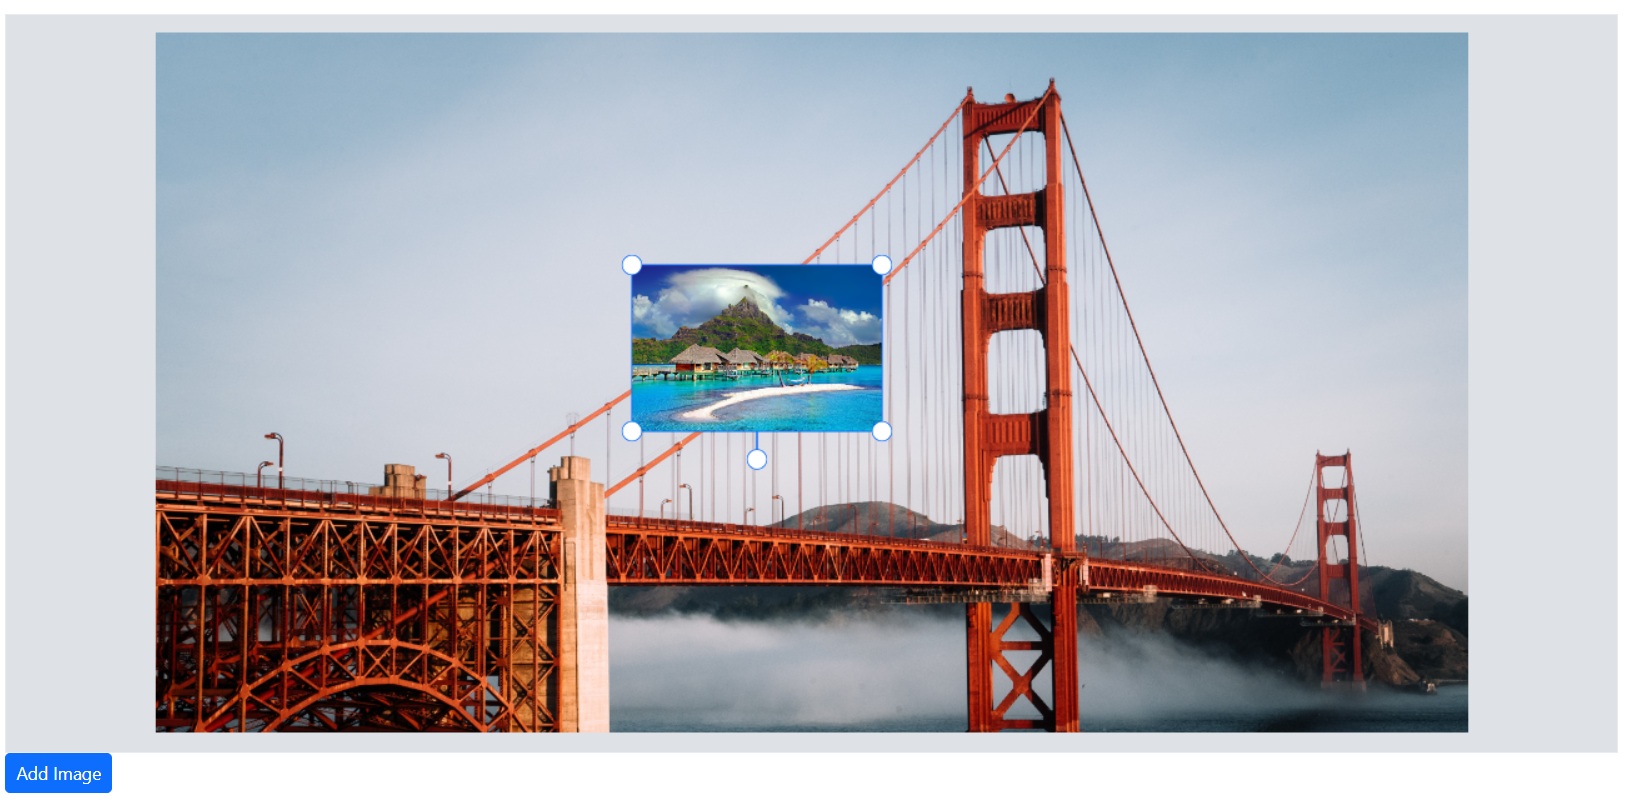
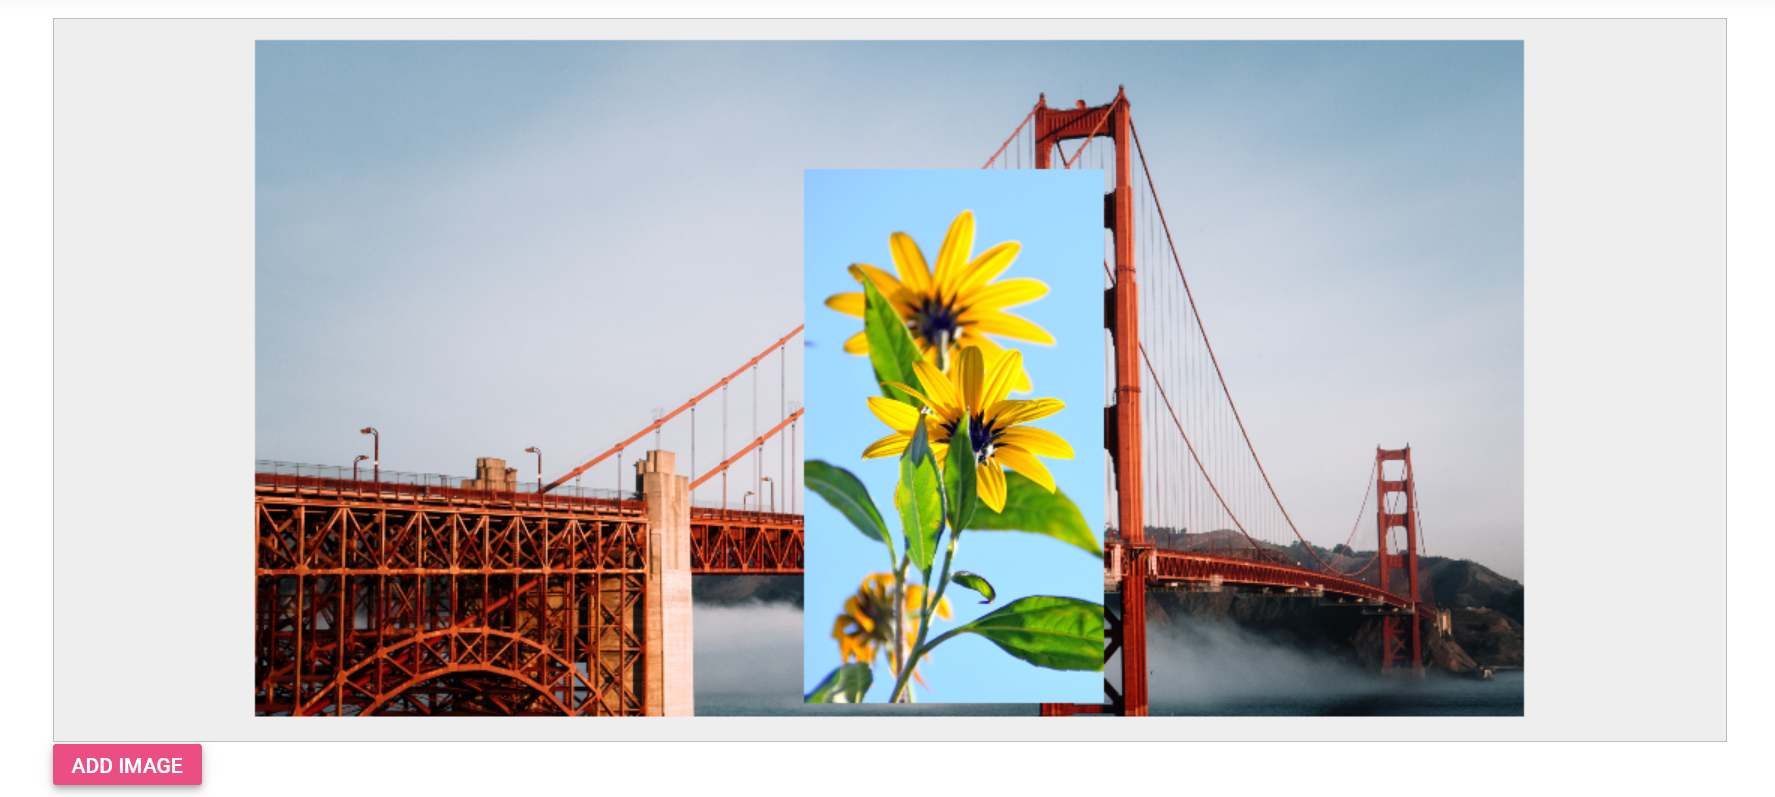
ej2(847785) - New UG samples for image editor new features in asp mvc platform

diff --git a/ej2-asp-core-mvc/code-snippet/image-editor/annotation/add-image/tagHelper.html b/ej2-asp-core-mvc/code-snippet/image-editor/annotation/add-image/tagHelper.html
@@ -19,7 +19,7 @@
     
     function btnClick() {
         var imgObj = ej.base.getComponent(document.getElementById('image-editor'), 'image-editor');
-        imgObj.drawImage('https://www.shutterstock.com/image-photo/linked-together-life-cropped-shot-600w-2149264221.jpg', 500, 100, 200, 80, true, 90);
+        imgObj.drawImage('https://ej2.syncfusion.com/demos/src/image-editor/images/flower.png', 500, 100, 200, 80, true, 0);
     }
 
 </script>

diff --git a/ej2-asp-core-mvc/code-snippet/image-editor/annotation/add-image/razor.ts b/ej2-asp-core-mvc/code-snippet/image-editor/annotation/add-image/razor.ts
@@ -15,7 +15,7 @@
 
     function btnClick() {
         var imgObj = ej.base.getComponent(document.getElementById('image-editor'), 'image-editor');
-        imgObj.drawImage('https://www.shutterstock.com/image-photo/linked-together-life-cropped-shot-600w-2149264221.jpg', 500, 100, 200, 80, true, 90);
+        imgObj.drawImage('https://ej2.syncfusion.com/demos/src/image-editor/images/flower.png', 500, 100, 200, 80, true, 0);
     }
 </script>
 
